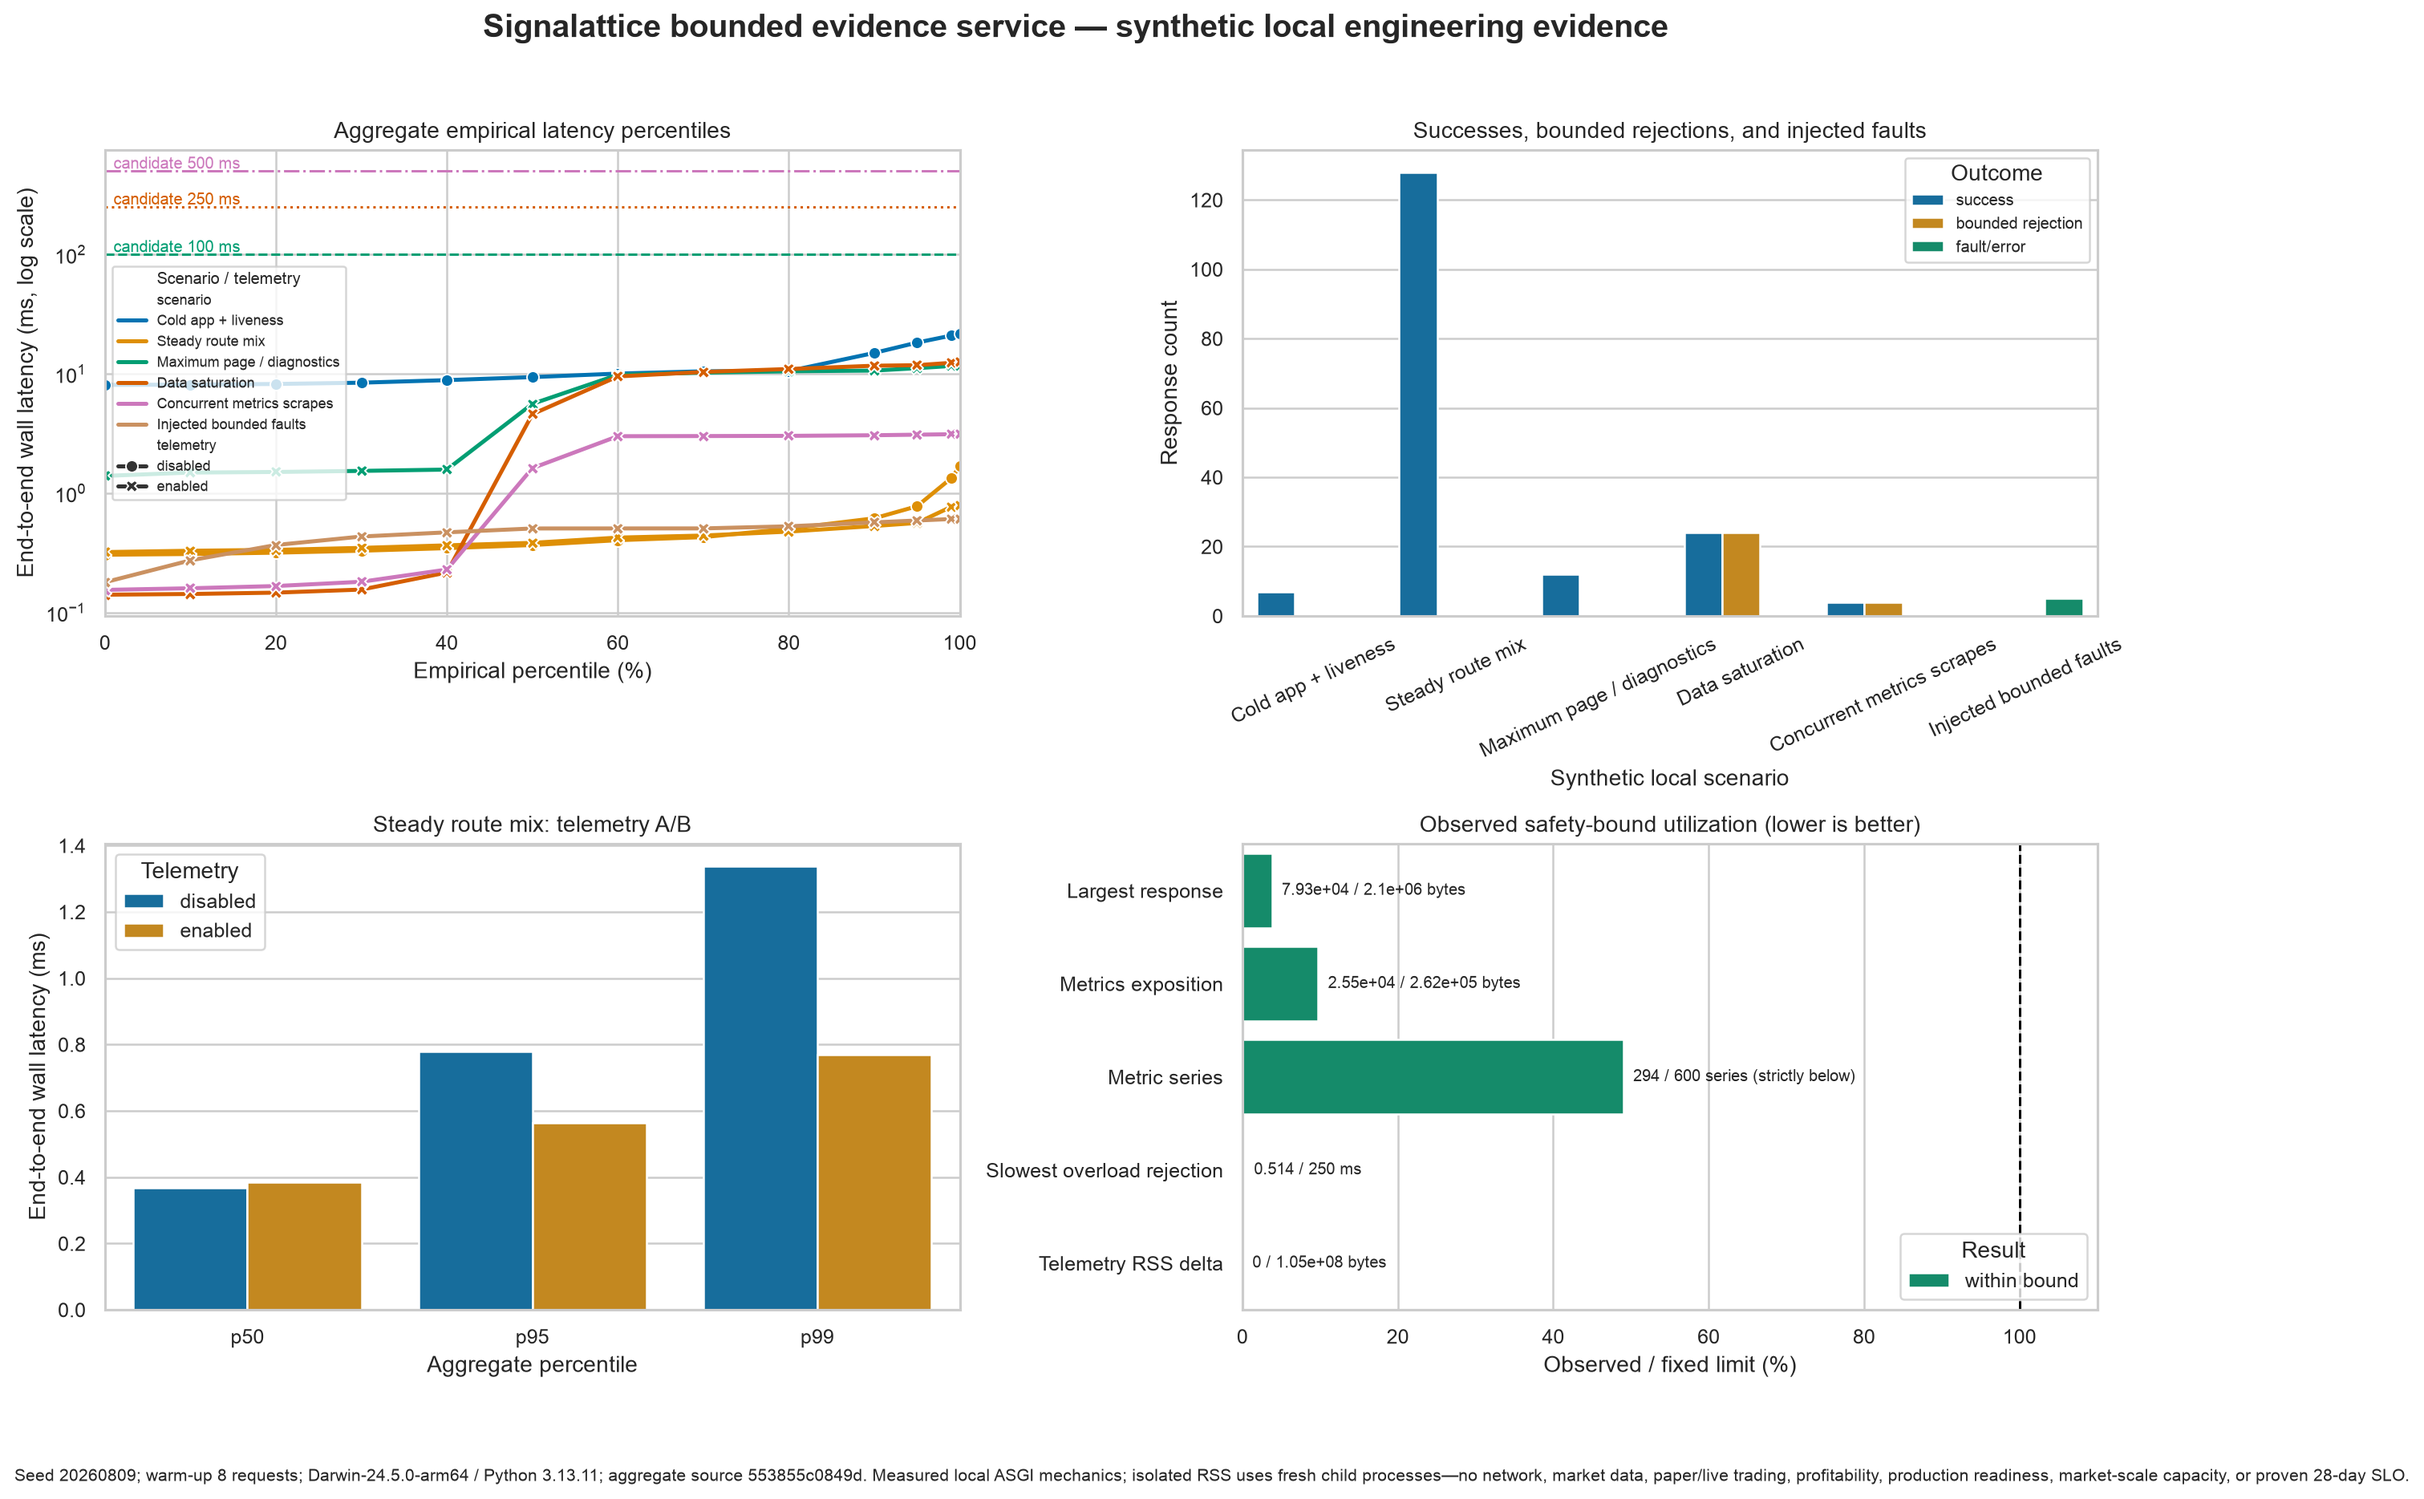
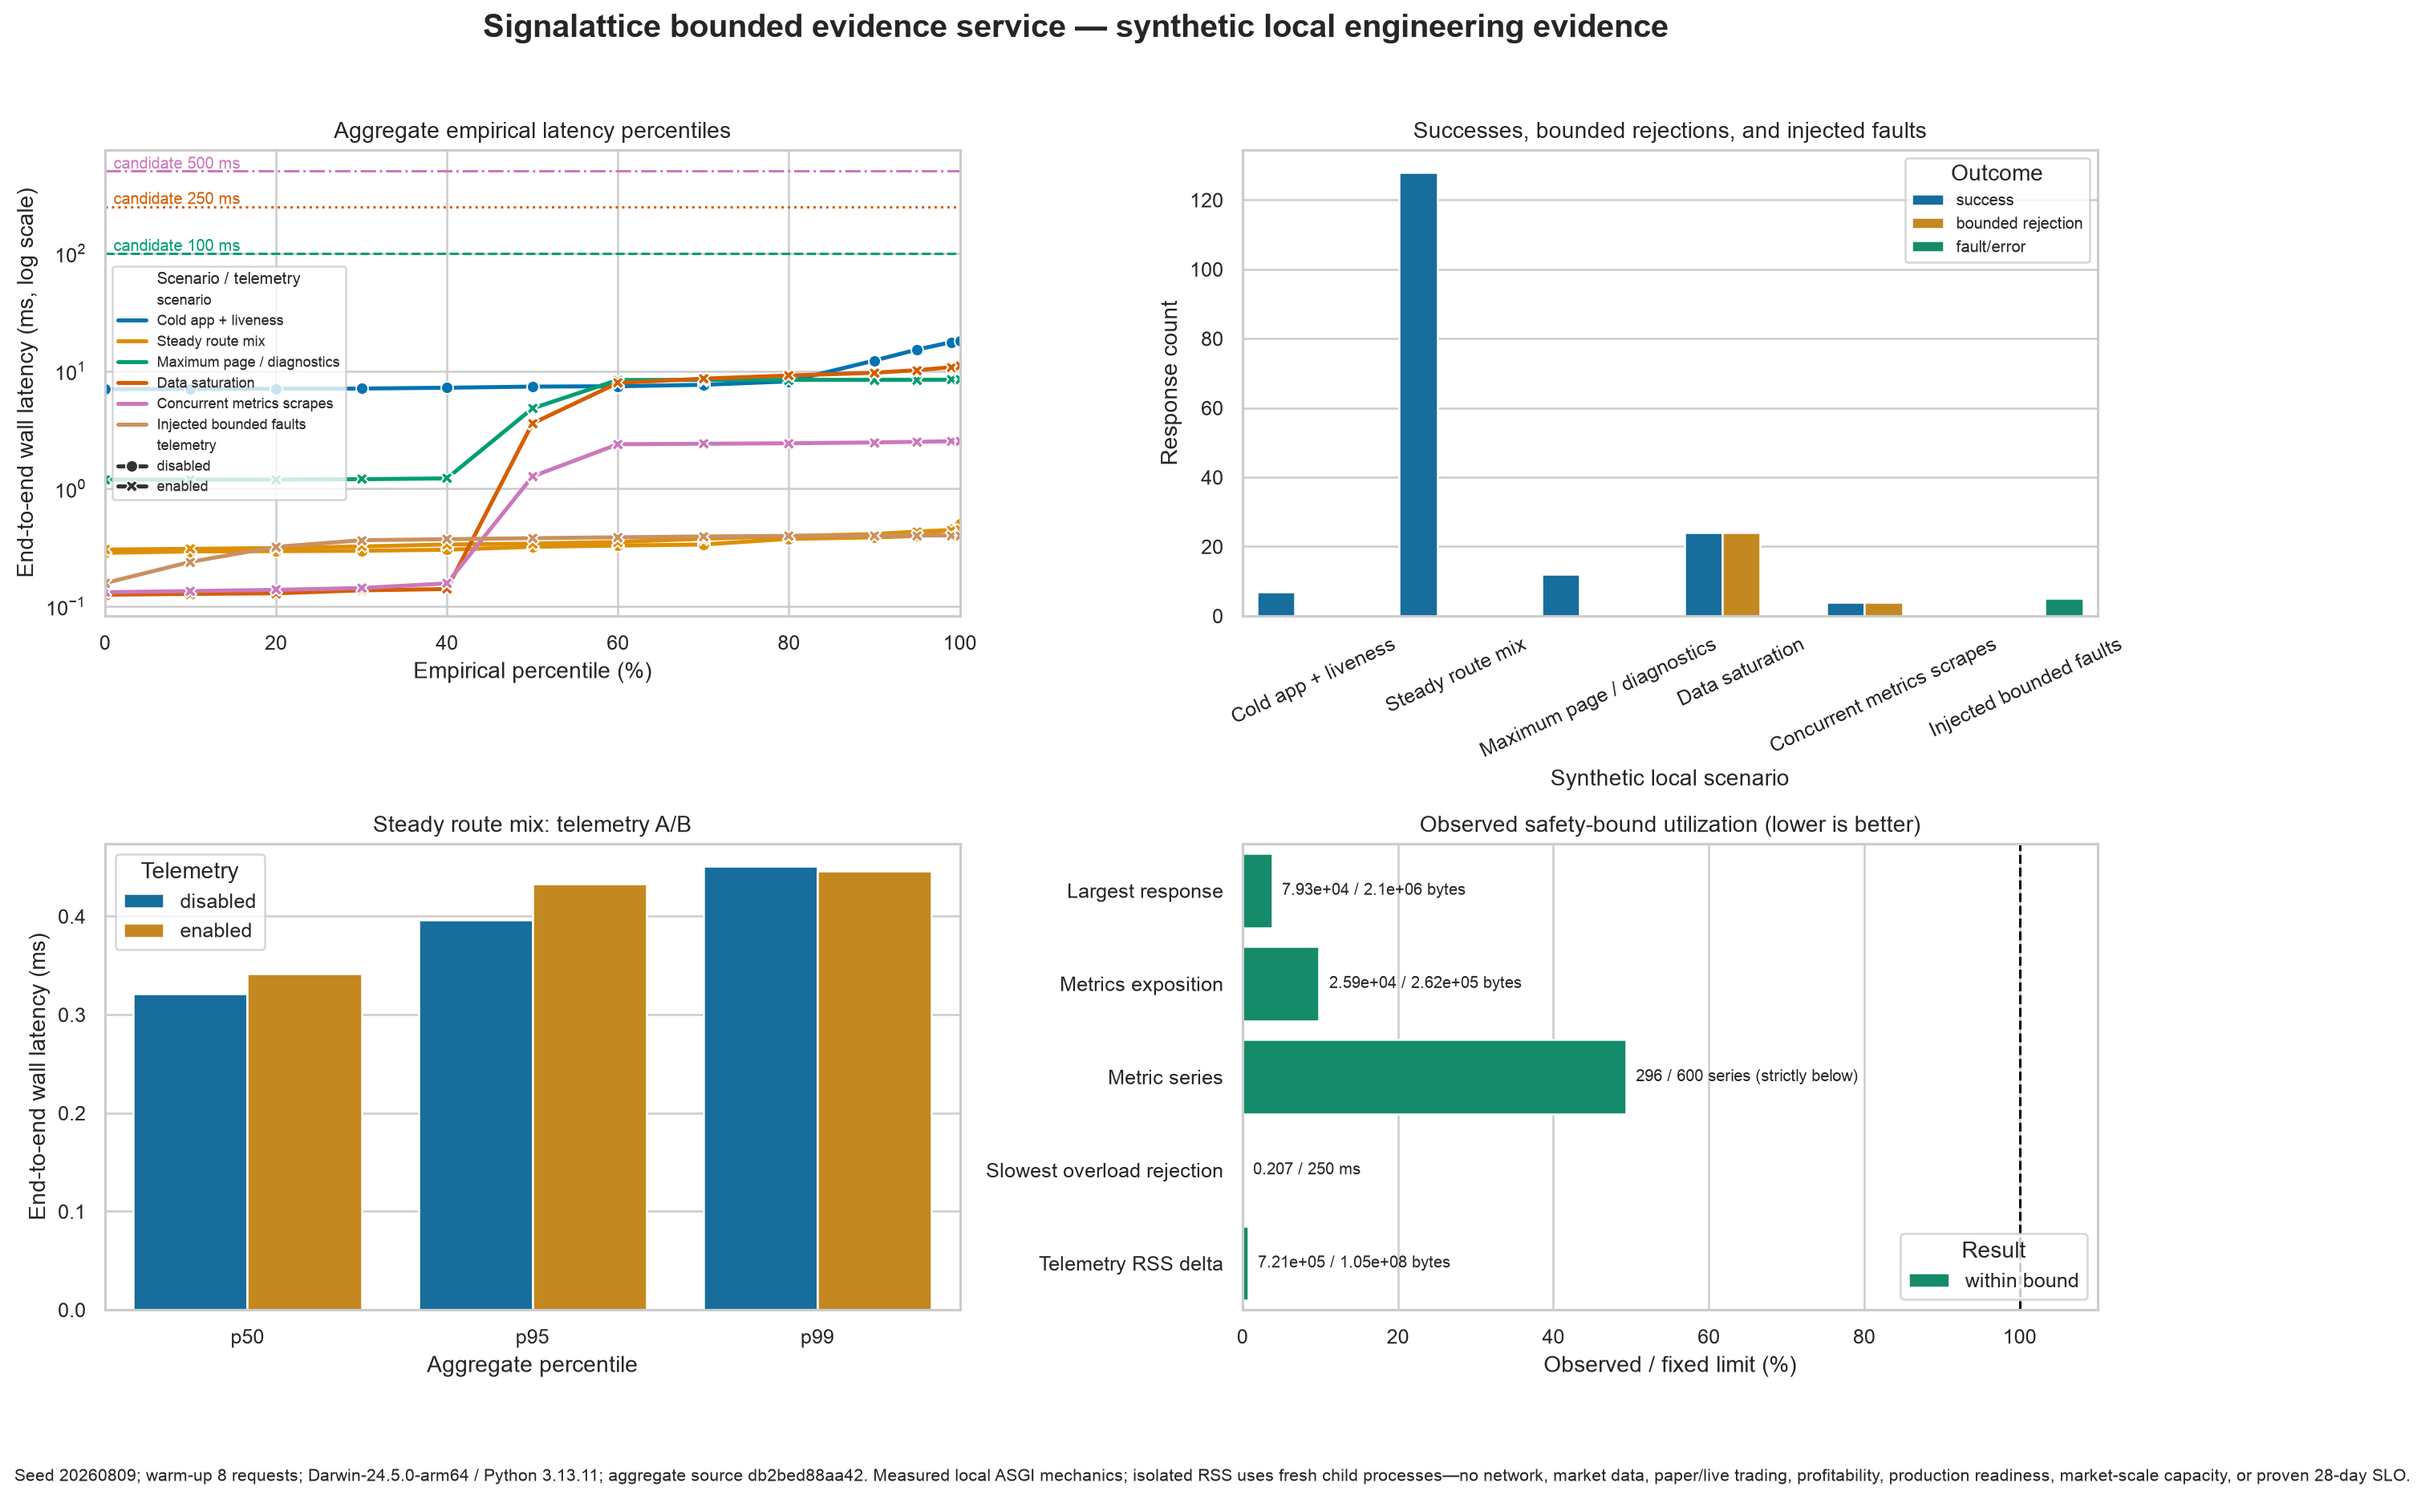
fix(service): rebind operability evidence to the settled source tree
The committed benchmark recorded a source_tree_sha256 for an earlier revision:
file mtimes show telemetry.py, middleware.py, and api.py were edited after the
evidence was generated, so the binding pointed at a tree that no longer existed.
The provenance check caught it, which is what it is for.

Regenerated evidence, then the plot derived from it, then the plot digest
recorded in the operations runbook, in that order — each is an input to the
next. Also applied formatter output to two container-verification files.

The plot digest lives in prose and must be updated by hand whenever the plot
changes; the test enforces agreement, so drift fails loudly rather than
silently, but deriving it would be better and is left as a follow-up.

diff --git a/tests/test_service_container_contract.py b/tests/test_service_container_contract.py
@@ -444,9 +444,7 @@ def _verify_trivy(
             if expected_type == "container_image" and expected_config_digest is None
             else expected_config_digest
         ),
-        expected_image_reference=(
-            IMAGE_NAME if expected_type == "container_image" else None
-        ),
+        expected_image_reference=(IMAGE_NAME if expected_type == "container_image" else None),
         require_artifact_id=require_artifact_id,
     )
 
@@ -1203,9 +1201,7 @@ def test_trivy_verifier_accepts_only_exact_version_bound_python_license_notices(
     with pytest.raises(verifier.VerificationError, match="release-blocking"):
         _verify_trivy(_minimal_trivy_result(Licenses=[notices[0]]))
 
-    duplicated = _minimal_image_trivy_result(
-        Licenses=[dict(notices[0]), dict(notices[0])]
-    )
+    duplicated = _minimal_image_trivy_result(Licenses=[dict(notices[0]), dict(notices[0])])
     with pytest.raises(verifier.VerificationError, match="duplicated"):
         _verify_trivy(duplicated, expected_type="container_image")
 

diff --git a/scripts/verify_service_container.py b/scripts/verify_service_container.py
@@ -697,8 +697,7 @@ def _verify_trivy_metadata(
             for field in ("Family", "Name")
         )
         or not isinstance(image_config, dict)
-        or set(image_config)
-        != {"architecture", "config", "created", "history", "os", "rootfs"}
+        or set(image_config) != {"architecture", "config", "created", "history", "os", "rootfs"}
         or image_config.get("architecture") != "amd64"
         or image_config.get("os") != "linux"
         or not isinstance(image_config.get("created"), str)

diff --git a/docs/service_operations.md b/docs/service_operations.md
@@ -241,7 +241,7 @@ claim. The plot is generated through Seaborn from the committed JSON. See the
 
 The 3,020 x 1,869 reference image was generated from aggregate JSON SHA-256
[3 lines of base64/hex data omitted]
 The implementing engineering agent visually inspected it at original resolution and confirmed
 that the four panels, candidate reference lines, measured percentile curves, A/B bars, explicit
 fault/rejection outcomes, limit labels, units, source caption, and synthetic-local disclaimer are
